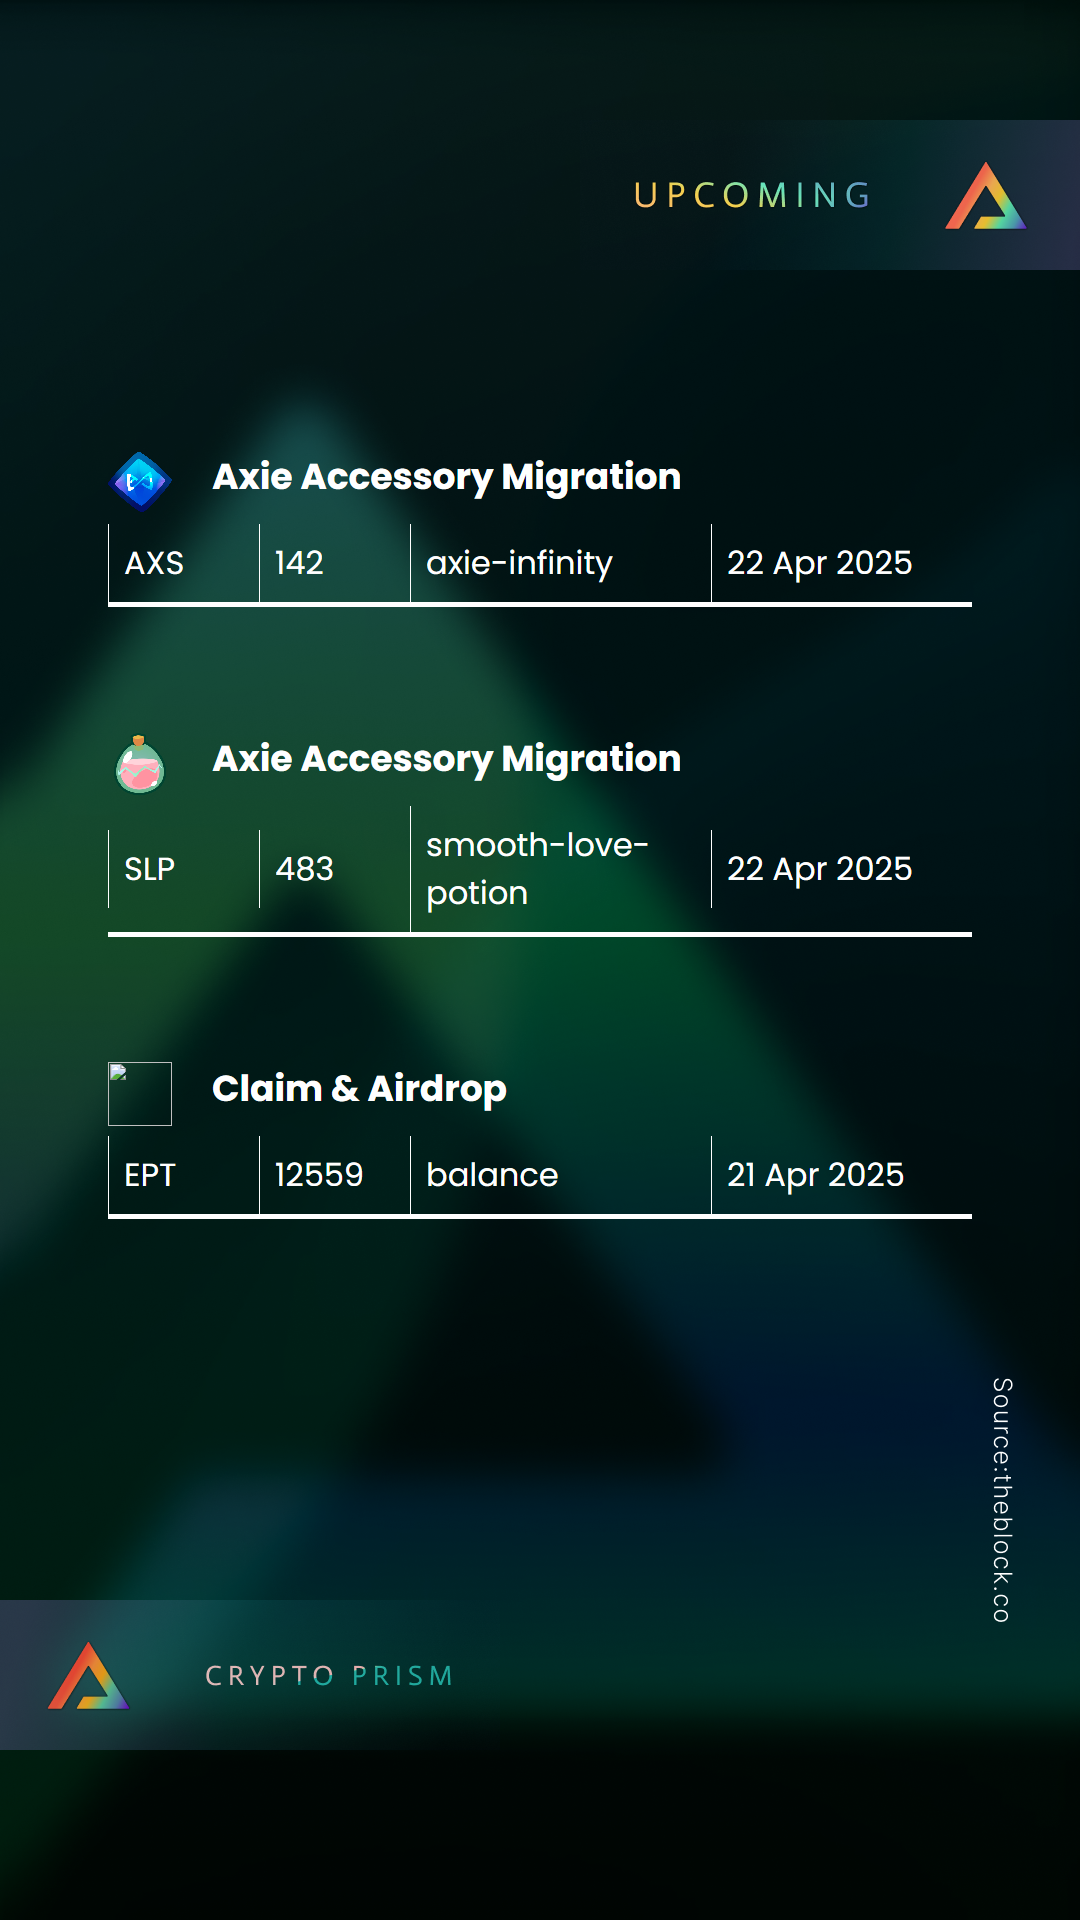
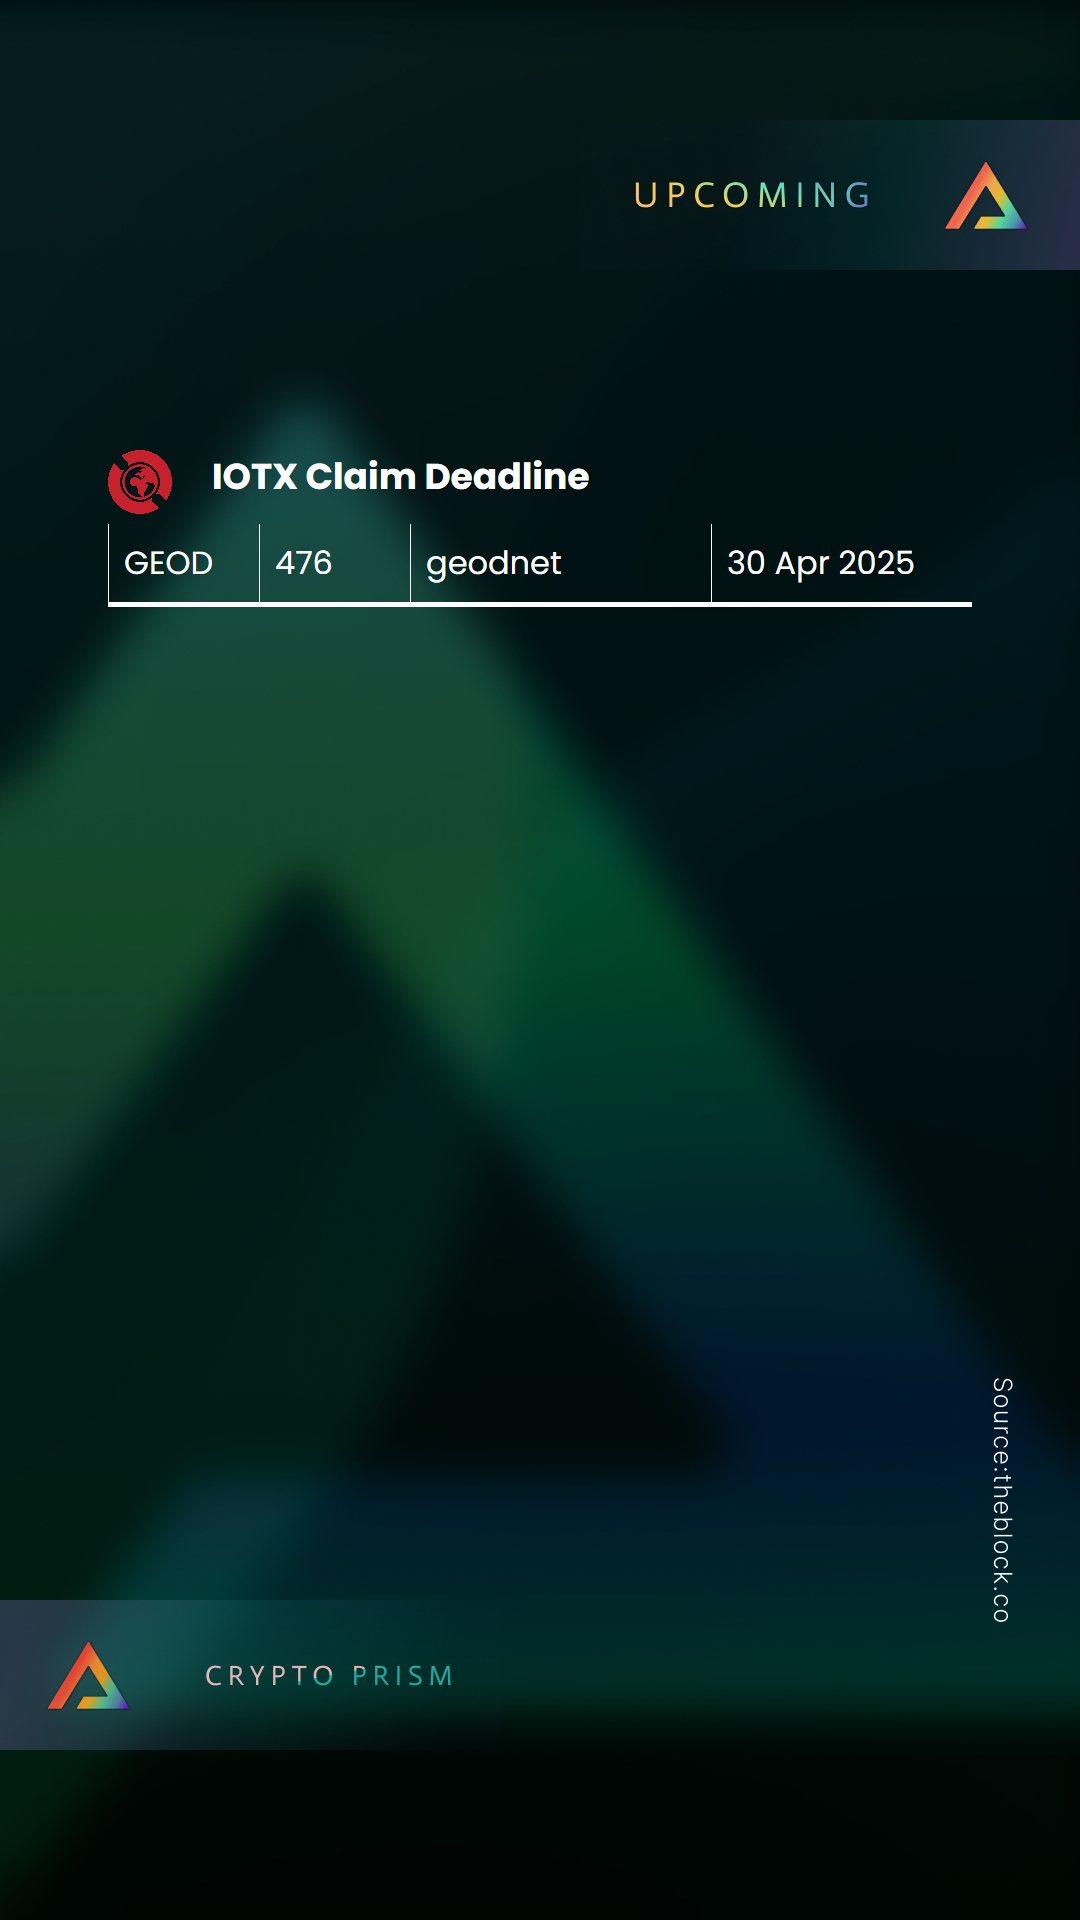
fetch query fix

diff --git a/tokenomics_output.html b/tokenomics_output.html
@@ -13,33 +13,33 @@
             
             <div class="frame">
                 <div class="row1">
-                    <img class="logo" src="nan">
-                    <h2 class="title">31.34MM Token Unlock</h2>
+                    <img class="logo" src="https://s2.coinmarketcap.com/static/img/coins/64x64/20947.png">
+                    <h2 class="title">74MM Token Unlock</h2>
                 </div>
                 <div class="row2">
-                    <div class="symbol">OP</div>
-                    <div class="rank">nan</div>
-                    <div class="name">nan</div>
-                    <div class="event">30 Apr 2025</div>
+                    <div class="symbol">SUI</div>
+                    <div class="rank">11.0</div>
+                    <div class="name">Sui</div>
+                    <div class="event">01 May 2025</div>
                 </div>
                 <div class="news">
-                    <p>Upcoming unlock (40M tokens) represents 20% of the circulating supply.  Market cap to unlock ratio is 38.5M. Price momentum is -36.8%. Volatility, based on recent price swings, is moderate (estimated at 10%). The large unlock and negative price momentum pose considerable risk.</p>
+                    <p>The 20% unlock represents a substantial portion of the circulating supply.  The low Market Cap to Unlock ratio suggests potential negative price pressure. Negative price momentum and high volatility are also significant concerns.</p>
                 </div>
             </div>
             
             <div class="frame">
                 <div class="row1">
                     <img class="logo" src="nan">
-                    <h2 class="title">229.17MM Token Unlock</h2>
+                    <h2 class="title">3.45B Token Unlock</h2>
                 </div>
                 <div class="row2">
-                    <div class="symbol">KMNO</div>
+                    <div class="symbol">MEME</div>
                     <div class="rank">nan</div>
                     <div class="name">nan</div>
-                    <div class="event">30 Apr 2025</div>
+                    <div class="event">03 May 2025</div>
                 </div>
                 <div class="news">
-                    <p>Upcoming unlock (40M tokens) represents 20% of the circulating supply.  Market cap to unlock ratio is 38.5M. Price momentum is -36.8%. Volatility, based on recent price swings, is moderate (estimated at 10%). The large unlock and negative price momentum pose considerable risk.</p>
+                    <p>The 20% unlock represents a substantial portion of the circulating supply.  The low Market Cap to Unlock ratio suggests potential negative price pressure. Negative price momentum and high volatility are also significant concerns.</p>
                 </div>
             </div>
             

diff --git a/airdrop_output.html b/airdrop_output.html
@@ -13,40 +13,14 @@
             
             <div class="frame">
                 <div class="row1">
-                    <img class="logo" src="https://s2.coinmarketcap.com/static/img/coins/64x64/6783.png">
-                    <h2 class="title">Axie Accessory Migration</h2>
+                    <img class="logo" src="https://s2.coinmarketcap.com/static/img/coins/64x64/20969.png">
+                    <h2 class="title">IOTX Claim Deadline</h2>
                 </div>
                 <div class="row2">
-                    <div class="symbol">AXS</div>
-                    <div class="rank">142</div>
-                    <div class="name">axie-infinity</div>
-                    <div class="event">22 Apr 2025</div>
-                </div>
-            </div>
-            
-            <div class="frame">
-                <div class="row1">
-                    <img class="logo" src="https://s2.coinmarketcap.com/static/img/coins/64x64/5824.png">
-                    <h2 class="title">Axie Accessory Migration</h2>
-                </div>
-                <div class="row2">
-                    <div class="symbol">SLP</div>
-                    <div class="rank">483</div>
-                    <div class="name">smooth-love-potion</div>
-                    <div class="event">22 Apr 2025</div>
-                </div>
-            </div>
-            
-            <div class="frame">
-                <div class="row1">
-                    <img class="logo" src="nan">
-                    <h2 class="title">Claim & Airdrop</h2>
-                </div>
-                <div class="row2">
-                    <div class="symbol">EPT</div>
-                    <div class="rank">12559</div>
-                    <div class="name">balance</div>
-                    <div class="event">21 Apr 2025</div>
+                    <div class="symbol">GEOD</div>
+                    <div class="rank">476</div>
+                    <div class="name">geodnet</div>
+                    <div class="event">30 Apr 2025</div>
                 </div>
             </div>
             

diff --git a/DB_FETCH_ETL_AIRDROP.py b/DB_FETCH_ETL_AIRDROP.py
@@ -110,7 +110,11 @@ def fetch_and_push_airdrop_events():
     """
 
     cc_info = pd.read_sql_query(query, engine)
+    # Merge the data
     df_filtered = pd.merge(df_filtered, cc_info, on='slug', how='left')
+
+    # Filter rows where cmc_rank < 500
+    df_filtered = df_filtered[df_filtered['cmc_rank'] < 500]
 
     final_columns = ['cmc_rank', 'slug', 'symbol', 'title', 'event_date', 'proof', 'logo']
     df_filtered = df_filtered[final_columns]

diff --git a/test.py b/test.py
@@ -1,5 +1,9 @@
 from DB_FETCH_ETL_TOKENOMICS import fetch_tokenomics_news
+from DB_FETCH_ETL_AIRDROP import fetch_and_push_airdrop_events
 
-test = fetch_tokenomics_news()
+#test = fetch_tokenomics_news()
+test = fetch_and_push_airdrop_events()
+
+test.to_csv("tokenomics_news.csv", index=False, encoding="utf-8")
 
 print(test.info())

diff --git a/[FE]tokenomics.py b/[FE]tokenomics.py
@@ -50,7 +50,7 @@ async def generate_image_from_html(output_html_file, output_image_path):
 async def render_page():
     
     df_filtered = fetch_tokenomics_news()
-    df_filtered = df_filtered.tail(2)
+    df_filtered = df_filtered.head(2)
 
     df = df_filtered.to_dict(orient='records')
 
